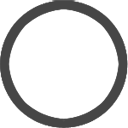
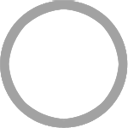
cleaning up and added opacity 50% to joystick

Changed region(s): [[0.0, 0.0, 1.0, 1.0]]

diff --git a/megafoxrun/src/net/megafoxhunt/ui/TouchJoystick.java b/megafoxrun/src/net/megafoxhunt/ui/TouchJoystick.java
@@ -7,6 +7,7 @@ import net.megafoxhunt.entities.EntityMovable;
 import net.megafoxhunt.shared.Shared;
 import net.megafoxhunt.shared.KryoNetwork.ActivateItem;
 
+import com.badlogic.gdx.Application.ApplicationType;
 import com.badlogic.gdx.Gdx;
 import com.badlogic.gdx.graphics.Texture;
 import com.badlogic.gdx.graphics.g2d.SpriteBatch;
@@ -27,9 +28,6 @@ public class TouchJoystick {
 	private Vector2 circlePos;
 	private Vector2 joystickPos;
 	
-	private Texture circle;
-	private Texture joystick;
-	
 	private int actionBtnPressed = 0;
 	
 	private GameNetwork network;
@@ -39,9 +37,6 @@ public class TouchJoystick {
 		
 		circlePos = new Vector2(120, 120);
 		joystickPos = new Vector2();
-		
-		circle = new Texture(Gdx.files.internal("data/circle.png"));
-		joystick = new Texture(Gdx.files.internal("data/joystick.png"));
 	}
 	
 	public void draw(SpriteBatch batch) {
@@ -55,12 +50,15 @@ public class TouchJoystick {
 				batch.draw(MyGdxGame.resources.BOMB_ANIMATIONS[GameResources.DEFAULT_ANIMATION].getKeyFrame(0), BTN1_X - (WIDTH / 2), BTN1_Y - (HEIGHT / 2), WIDTH, HEIGHT);
 			break;
 		}
-		
-		batch.draw(circle, circlePos.x - (CIRCLE_SIZE / 2), circlePos.y - (CIRCLE_SIZE / 2), CIRCLE_SIZE, CIRCLE_SIZE);
-		batch.draw(joystick, (joystickPos.x + circlePos.x) - (JOYSTICK_SIZE / 2), (joystickPos.y + circlePos.y) - (JOYSTICK_SIZE / 2), JOYSTICK_SIZE, JOYSTICK_SIZE);
+		if (Gdx.app.getType() == ApplicationType.Android) {
+			batch.draw(MyGdxGame.resources.circle, circlePos.x - (CIRCLE_SIZE / 2), circlePos.y - (CIRCLE_SIZE / 2), CIRCLE_SIZE, CIRCLE_SIZE);
+			batch.draw(MyGdxGame.resources.joystick, (joystickPos.x + circlePos.x) - (JOYSTICK_SIZE / 2), (joystickPos.y + circlePos.y) - (JOYSTICK_SIZE / 2), JOYSTICK_SIZE, JOYSTICK_SIZE);
+		}
 	}
 	
 	public void mouseDown(int x, int y) {
+		if (Gdx.app.getType() != ApplicationType.Android) return;
+		
 		y = Gdx.graphics.getHeight() - y;
 
 		joystickPos.x = x - circlePos.x;
@@ -69,7 +67,11 @@ public class TouchJoystick {
 		joystickPos.clamp(0, 55);
 		
 		double distance = getDistance((int)joystickPos.x, (int)joystickPos.y, x, y);
-		if (distance > Gdx.graphics.getWidth() / 2) return;
+		if (distance > Gdx.graphics.getWidth() / 2) {
+			joystickPos.x = 0;
+			joystickPos.y = 0;
+			return;
+		}
 		
 		float angle = joystickPos.angle();
 		if (angle < 45 && angle > 0 || angle < 360 && angle > 315) {

diff --git a/megafoxrun/src/net/megafoxhunt/core/GameResources.java b/megafoxrun/src/net/megafoxhunt/core/GameResources.java
@@ -39,6 +39,9 @@ public class GameResources {
 	public Texture btnNormal;
 	public Texture btnPressed;
 	
+	public Texture circle;
+	public Texture joystick;
+	
 	public Music MUSIC;	
 	public Music LOSE_ANTHEM;
 	public Music VICTORY_ANTHEM;	
@@ -87,6 +90,9 @@ public class GameResources {
 		 preferDogButtonTexture = new Texture("data/preferDog.png");
 		 preferFoxButtonTexture = new Texture("data/preferFox.png");
 		 readyButtonTexture = new Texture("data/ready.png");
+		 
+		 circle = new Texture(Gdx.files.internal("data/circle.png"));
+		 joystick = new Texture(Gdx.files.internal("data/joystick.png"));
 		 
 		 btnNormal = new Texture("data/btn_normal.png");
 		 btnPressed = new Texture("data/btn_pressed.png");
@@ -168,6 +174,9 @@ public class GameResources {
 		preferDogButtonTexture.dispose();
 		preferFoxButtonTexture.dispose();
 		readyButtonTexture.dispose();
+		
+		circle.dispose();
+		joystick.dispose();
 		
 		btnNormal.dispose();
 		btnPressed.dispose();
